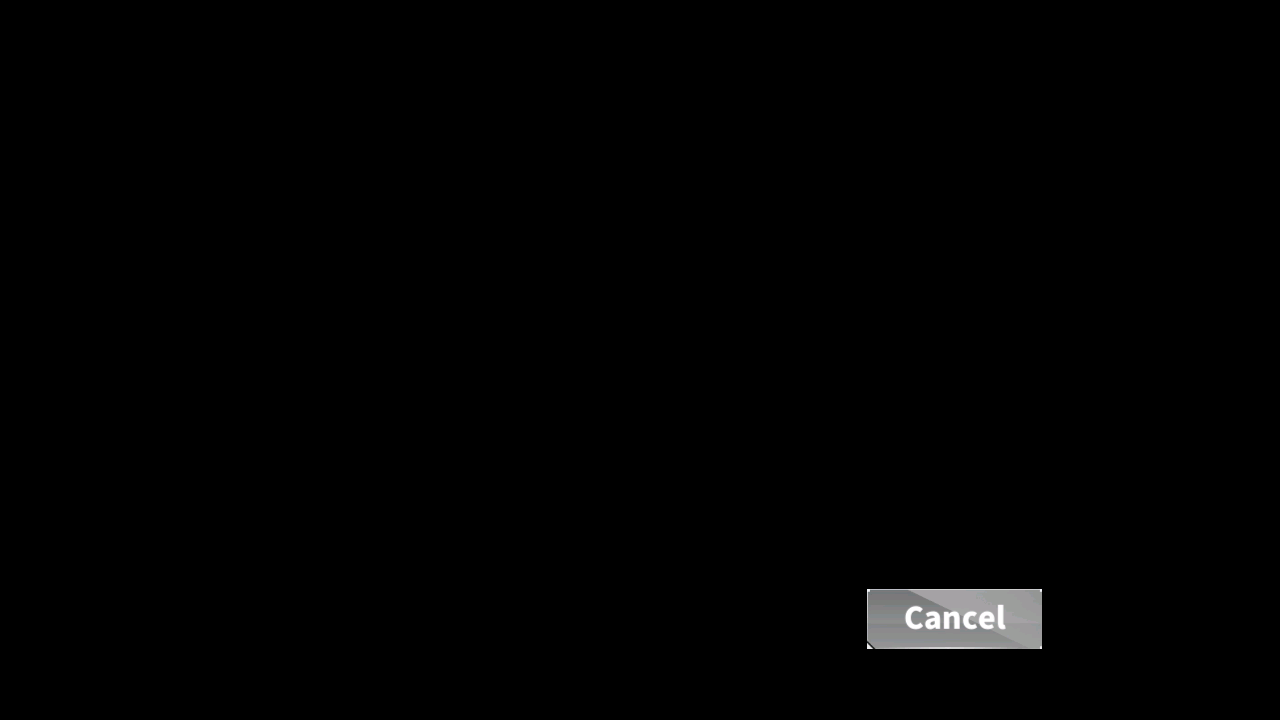
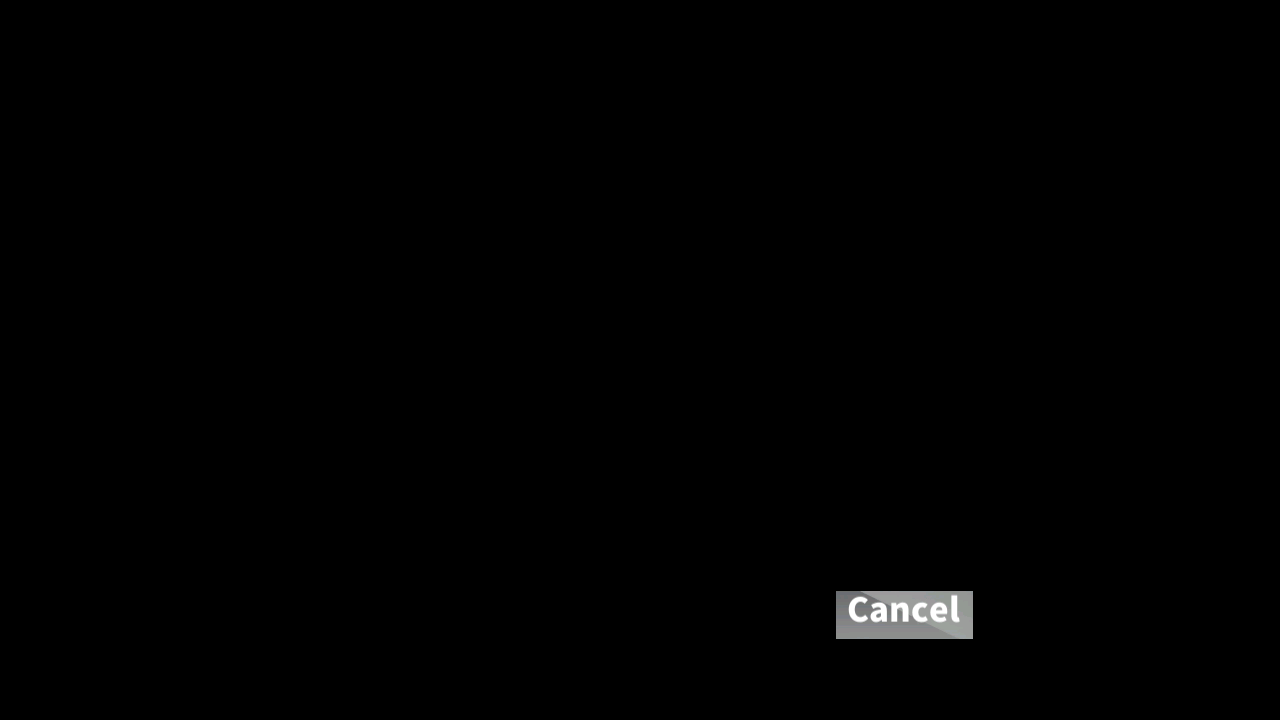
Fix: [EN] fixed Tactical class START and CANCEL button

Changed region(s): [[0.6562, 0.7944, 0.8125, 0.9167]]

diff --git a/module/tactical/assets.py b/module/tactical/assets.py
@@ -6,5 +6,5 @@ from module.base.template import Template
 
 OCR_SKILL_EXP = Button(area={'cn': (821, 191, 951, 209), 'en': (859, 189, 950, 207), 'jp': (821, 191, 951, 209), 'tw': (821, 191, 951, 209)}, color={'cn': (76, 85, 83), 'en': (77, 90, 79), 'jp': (76, 85, 83), 'tw': (76, 85, 83)}, button={'cn': (821, 191, 951, 209), 'en': (859, 189, 950, 207), 'jp': (821, 191, 951, 209), 'tw': (821, 191, 951, 209)}, file={'cn': './assets/cn/tactical/OCR_SKILL_EXP.png', 'en': './assets/en/tactical/OCR_SKILL_EXP.png', 'jp': './assets/jp/tactical/OCR_SKILL_EXP.png', 'tw': './assets/tw/tactical/OCR_SKILL_EXP.png'})
 REWARD_2 = Button(area={'cn': (383, 404, 503, 444), 'en': (382, 403, 504, 445), 'jp': (383, 404, 503, 444), 'tw': (383, 404, 503, 444)}, color={'cn': (233, 165, 67), 'en': (236, 177, 92), 'jp': (228, 161, 61), 'tw': (233, 165, 67)}, button={'cn': (383, 404, 503, 444), 'en': (382, 403, 504, 445), 'jp': (383, 404, 503, 444), 'tw': (383, 404, 503, 444)}, file={'cn': './assets/cn/tactical/REWARD_2.png', 'en': './assets/en/tactical/REWARD_2.png', 'jp': './assets/jp/tactical/REWARD_2.png', 'tw': './assets/tw/tactical/REWARD_2.png'})
-TACTICAL_CLASS_CANCEL = Button(area={'cn': (818, 591, 990, 647), 'en': (867, 589, 1042, 649), 'jp': (817, 590, 991, 648), 'tw': (816, 589, 992, 649)}, color={'cn': (153, 154, 154), 'en': (159, 160, 160), 'jp': (157, 157, 158), 'tw': (154, 154, 156)}, button={'cn': (818, 591, 990, 647), 'en': (867, 589, 1042, 649), 'jp': (817, 590, 991, 648), 'tw': (816, 589, 992, 649)}, file={'cn': './assets/cn/tactical/TACTICAL_CLASS_CANCEL.png', 'en': './assets/en/tactical/TACTICAL_CLASS_CANCEL.png', 'jp': './assets/jp/tactical/TACTICAL_CLASS_CANCEL.png', 'tw': './assets/tw/tactical/TACTICAL_CLASS_CANCEL.png'})
-TACTICAL_CLASS_START = Button(area={'cn': (1024, 590, 1197, 648), 'en': (1068, 589, 1243, 649), 'jp': (1024, 590, 1197, 647), 'tw': (1023, 589, 1199, 649)}, color={'cn': (96, 139, 194), 'en': (85, 132, 191), 'jp': (92, 136, 190), 'tw': (102, 143, 196)}, button={'cn': (1024, 590, 1197, 648), 'en': (1068, 589, 1243, 649), 'jp': (1024, 590, 1197, 647), 'tw': (1023, 589, 1199, 649)}, file={'cn': './assets/cn/tactical/TACTICAL_CLASS_START.png', 'en': './assets/en/tactical/TACTICAL_CLASS_START.png', 'jp': './assets/jp/tactical/TACTICAL_CLASS_START.png', 'tw': './assets/tw/tactical/TACTICAL_CLASS_START.png'})
+TACTICAL_CLASS_CANCEL = Button(area={'cn': (818, 591, 990, 647), 'en': (836, 591, 973, 639), 'jp': (817, 590, 991, 648), 'tw': (816, 589, 992, 649)}, color={'cn': (153, 154, 154), 'en': (163, 164, 164), 'jp': (157, 157, 158), 'tw': (154, 154, 156)}, button={'cn': (818, 591, 990, 647), 'en': (836, 591, 973, 639), 'jp': (817, 590, 991, 648), 'tw': (816, 589, 992, 649)}, file={'cn': './assets/cn/tactical/TACTICAL_CLASS_CANCEL.png', 'en': './assets/en/tactical/TACTICAL_CLASS_CANCEL.png', 'jp': './assets/jp/tactical/TACTICAL_CLASS_CANCEL.png', 'tw': './assets/tw/tactical/TACTICAL_CLASS_CANCEL.png'})
+TACTICAL_CLASS_START = Button(area={'cn': (1024, 590, 1197, 648), 'en': (1045, 592, 1176, 640), 'jp': (1024, 590, 1197, 647), 'tw': (1023, 589, 1199, 649)}, color={'cn': (96, 139, 194), 'en': (95, 137, 190), 'jp': (92, 136, 190), 'tw': (102, 143, 196)}, button={'cn': (1024, 590, 1197, 648), 'en': (1045, 592, 1176, 640), 'jp': (1024, 590, 1197, 647), 'tw': (1023, 589, 1199, 649)}, file={'cn': './assets/cn/tactical/TACTICAL_CLASS_START.png', 'en': './assets/en/tactical/TACTICAL_CLASS_START.png', 'jp': './assets/jp/tactical/TACTICAL_CLASS_START.png', 'tw': './assets/tw/tactical/TACTICAL_CLASS_START.png'})
